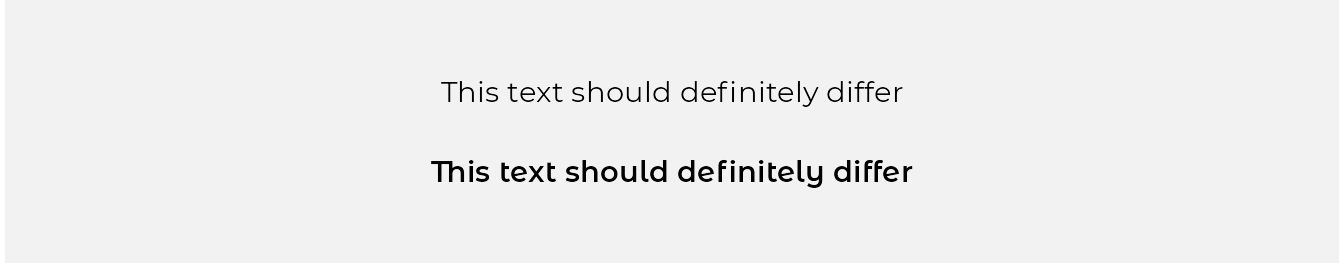
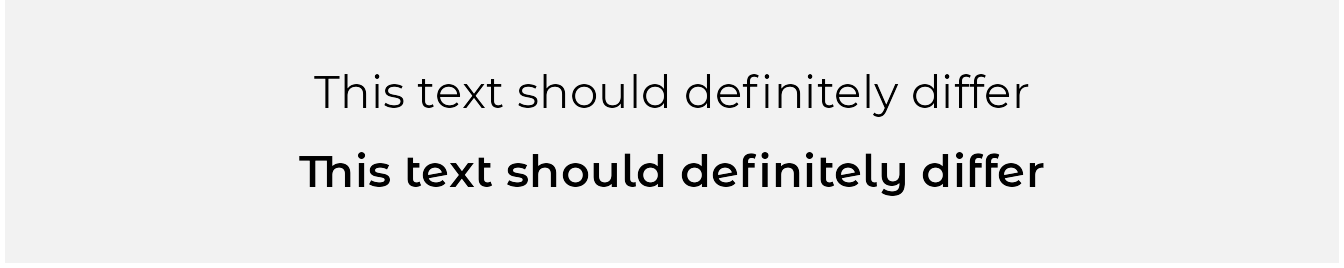
Updating with suggestions

Changed region(s): [[0.2188, 0.5672, 0.7812, 0.7463], [0.2188, 0.2687, 0.7812, 0.4179]]

diff --git a/content/blog/modern-text-features/index.md b/content/blog/modern-text-features/index.md
@@ -17,10 +17,21 @@ photo:
 
 # one of: "deep-dive", "learn", "package", "programming", or "other"
 categories: [deep-dive] 
-tags: []
-rmd_hash: c239d02c76ac3d3b
+tags: [graphic-device, ragg, systemfonts]
+rmd_hash: 8b54b1ad16560eaa
 
 ---
+
+<div class="highlight">
+
+<pre class='chroma'><code class='language-r' data-lang='r'><span class='kr'><a href='https://rdrr.io/r/base/library.html'>library</a></span><span class='o'>(</span><span class='nv'><a href='https://ragg.r-lib.org'>ragg</a></span><span class='o'>)</span>
+
+<span class='nf'>knitr</span><span class='nf'>::</span><span class='nv'><a href='https://rdrr.io/pkg/knitr/man/opts_chunk.html'>opts_chunk</a></span><span class='o'>$</span><span class='nf'>set</span><span class='o'>(</span>
+  dev <span class='o'>=</span> <span class='s'>"ragg_png"</span>
+<span class='o'>)</span>
+</code></pre>
+
+</div>
 
 I'm extremely pleased to present some new functionality when it comes to text rendering and font support in R. This is the culmination of work that started during the development of the ragg package where I was first exposed to the intricacies of text rendering. The new features presented herein spans the systemfonts, textshaping, and ragg packages, but from a user point of view everything will be available simply by using the graphic devices in ragg.
 
@@ -28,12 +39,26 @@ ragg is now in a state where it "just works", and works comparably across all ma
 
 The features that will be discussed in the following are:
 
-1.  Support for non-Latin scripts including Right-to-Left (RtL) scripts as well as a mix between script directions (bidirectional text)
+1.  Support for non-Latin scripts including Right-to-Left (RtL) scripts.
 2.  Support for OpenType features such as ligatures, glyph substitutions, etc.
 3.  Support for color fonts
 4.  Support for font fallback
 
+All of the above comes in addition to the fact that ragg is able to use all of your installed fonts.
+
 The tl;dr of it is that all area mentioned above now has full support in ragg out of the box, but I'd invite you to read on to learn how it works, how to control it, and what it all means for you as a user.
+
+### Using ragg
+
+-   ragg can be used directly in the same way as the build-in devices, such as [`png()`](https://rdrr.io/r/grDevices/png.html), [`jpeg()`](https://rdrr.io/r/grDevices/png.html), and [`tiff()`](https://rdrr.io/r/grDevices/png.html), by opening the device, running some code that renders graphics, and closing it again when done using [`dev.off()`](https://rdrr.io/r/grDevices/dev.html). The devices in ragg are prefixed with `agg_` and named by the file format they produce (e.g. [`agg_png()`](https://ragg.r-lib.org/reference/agg_png.html)).
+
+-   You can use ragg with [`ggsave()`](https://ggplot2.tidyverse.org/reference/ggsave.html) by passing the device function to the `device` argument (e.g. [`ggsave(device = agg_tiff)`](https://ggplot2.tidyverse.org/reference/ggsave.html)).
+
+-   You can tell RStudio to use ragg in the *Plots* pane be setting the backend to `AGG` under *Global Options &gt; General &gt; Graphics*.
+
+-   ragg can be used when knitting Rmarkdown files by setting `dev="ragg_png"` in the code chunk options
+
+Read more about using ragg in the previous release blog posts: [0.2.0](https://www.tidyverse.org/blog/2020/05/updates-to-ragg-and-systemfonts/) and [0.1.0](https://www.tidyverse.org/blog/2019/07/ragg-0-1-0/)
 
 ### Graphical tl;dr;
 
@@ -92,16 +117,16 @@ With the new version of ragg you'll be able to render plots such as this and exp
 
 </div>
 
-Pay note to the effortless mix of text in English and Japanese, along with the inclusion of emojis in regular text strings. If this has piqued your interest, read on!
+Pay note to the effortless mix of text in English and Japanese, along with emoji in the title. If this has piqued your interest, read on!
 
 Advanced script support
 -----------------------
 
-English, being the lingua franca of programming, has generally dominated everything related to text within programming, ranging from encoding to rendering. Because of this, the Latin script, which is used in most of the western world, has been the best (or often only) supported script in many text rendering pipelines. This has also been true in the R world where the build-in graphic devices has struggled to display scripts that differed from the standard Latin layout (the Cairo devices on Linux being the exception as we will see). This is not a jab at the provided graphic devices. ragg has handled text rendering in the exact same way up until now and the work that has gone into changing it has not been trivial. Technicalities aside, it is about time (overdue, actually) that the graphic system in R begins to support the display of non-Latin script and becomes more inclusive in terms of which languages can be used. It is thus with great joy that I can finally support it in ragg.
+English, the lingua franca of programming, has tended to dominate everything related to text within programming, ranging from encoding to rendering. This has made the Latin script, used in most of the Western world, the best (or often only) supported script in many text rendering pipelines. This has been true in the R world where the built-in graphic devices have struggled to display other scripts (the only exception being Cairo devices on Linux). It is about time (overdue, really!) that the graphics system in R becomes more inclusive of which languages can be used. It is thus with great joy that I announce that ragg finally supports all scripts.
 
 ### Right-to-Left scripts
 
-To start off we will look at a sample of different scripts that poses a problem due to their direction.
+To start off we will look at a sample of different scripts (Arabic, Hebrew, and Sindhi) that pose a challenge because they are written from right to left:
 
 <div class="highlight">
 
@@ -127,15 +152,13 @@ To start off we will look at a sample of different scripts that poses a problem 
 
 </div>
 
-Now, if you are not trained in reading any of the three languages above it may be hard to see what is right and what is wrong. You may, however, look at how the text in the code is rendered in the browser and compare that to the device rendering. If you do that you can see that the Hebrew script is rendered in the wrong direction for all the non-ragg devices (except Cairo on Linux). For the other scripts it is less obvious that the direction is wrong since the text glyphs are fundamentally different due to ligature substitutions. Still, by comparing to the browser rendering you can see that the same devices failing on the Hebrew script fail here as well.
+If you're not familiar with the languages above it can be hard to see what is right and what is wrong. You may, however, look at how the text in the code is rendered in the browser and compare that to the device rendering. If you do that you can see that the Hebrew script is rendered in the wrong direction for all the non-ragg devices (except Cairo on Linux). For the Arabic and Sindhi it's even harder to see what's wrong because the text looks fundamentally different. That's because both Arabic and Sindhi rely extensively on text substitution rules and ligatures; the way a letter is written depends critically on what letters it is next to. Still, by comparing to the browser rendering you can see that the same devices failing on the Hebrew script fail here as well.
 
-A point to make is that all of this "just works" in ragg. How is that? Shouldn't we have to indicate which kind of script we want to use? This is not necessary due to the genius of the Unicode standard which relates characters to specific scripts. The script, and by extension the layout, can thus simply be deduced from the provided string without needing to specify any additional information.
-
-The Cairo device on Linux handles this task well, as we have noted above. How come this works, but only on one OS (Cairo on macOS and Windows performs as bad as the other native devices)? Cairo is a fundamental library of many Linux distributions and is usually build on top of the Pango library which handles text layouting on Linux. It thus have access to OS level text rendering when used on Linux, but not on the other major platforms. The text rendering quality of the Cairo device on Linux is something that will be consistent through these examples and while it is very good, it is not fair to ask users to switch operating system to get modern font support. Even if you are already using Linux you'd have to accept that your output is not necessarily reproducible on other systems if you using the default device.
+The Cairo device on Linux handles this task well, as we have noted above. How come this works, but only on one OS? Cairo is built in to most Linux distributions and is designed to work with Pango, the library that linux uses to layout text. R's Cairo graphics device bundles Cairo on all platforms, but doesn't include Pango, due to the challenges of building it on other operating systems.
 
 ### Bidirectional text
 
-In the case of a mix of scripts, most importantly a mix of scripts with different direction, the string needs to be split based on the bidirectional algorithm (also defined in the Unicode standard) and each script run should then be laid out individually and combined in the end.
+What happens if you combine right-to-left and left-to-right text in the same sentence? The string needs to be split into pieces that each consist of text running in one direction, laid out individually, and then combined back together
 
 <div class="highlight">
 
@@ -158,18 +181,14 @@ In the case of a mix of scripts, most importantly a mix of scripts with differen
 
 </div>
 
-It comes as no surprise that the devices that struggle with RtL scripts also fail when these are mixed with Left-to-Right (LtR), so the point here is mainly that ragg (and Cairo on Linux) supports this additional complication with no additional work on the user.
-
-### Scripts with special consideration
-
-While some scripts are simple in the sense that only the text direction needs to be reversed (e.g. Hebrew), others are more demanding of the layout algorithm. Arabic, for example, is not only a RtL script but also relies heavily on ligatures (substitution of multiple glyphs with a single one) and position adjustments to achieve the correct look of the text. Such information is not encoded in the text string but are instead rules encoded in the font used to render it. Correctly laying out a string will thus require both figuring out the script to use, as well as converting the characters in the string to the correct set of glyphs to use based on substitution tables found in the font file. This is not straightforward, but is being handled in ragg (and Cairo on Linux) as they both build upon the HarfBuzz library to lay out text.
+Given that most devices struggle with RtL scripts, it's not surprising that they also fail when mixed. Again the exception is ragg, and Cairo on Linux.
 
 Advanced font feature support
 -----------------------------
 
-As noted above, part of supporting some scripts is to have support for ligatures. While ligatures is a requirement for the correct rendering of some scripts it is also an optional feature of fonts in general to support different text variations. More generally, the OpenType font format describes a long range of features, many optional, that defines specific glyph substitutions (both one-to-one and many-to-one) or position adjustments that can be turned on or off and will affect the look of the final rendered text. Some of these features are turned on automatically for specific scripts (e.g. required ligatures for Arabic), while others are left for the user to turn on at their discretion (e.g. tabular numerics). As part of the work to add support for non-Latin scripts the infrastructure to support all OpenType features was build. This, of course, requires that the font in use supports the requested feature.
+A part of supporting some of the non-Latin scripts described above is to have support for ligatures (substituting multiple glyphs with a single new glyph). While ligatures is a requirement for the correct rendering of some scripts it is also an optional feature of fonts in general in order to support different text variations. More generally, the OpenType font format describes a long range of features, many optional, that defines specific glyph substitutions (both one-to-one and many-to-one) or position adjustments that can be turned on or off and will affect the look of the final rendered text. Some of these features are turned on automatically for specific scripts (e.g. required ligatures for Arabic), while others are left for the user to turn on at their discretion (e.g. tabular numerics). As part of the work to add support for non-Latin scripts the infrastructure to support all OpenType features was build. This, of course, requires that the font in use supports the requested feature.
 
-Some fonts uses ligatures as a main part of their appeal, and these will now work as advertised with ragg:
+Some fonts, like the popular [Fira Code](https://github.com/tonsky/FiraCode) programming font, use ligatures as a main part of their appeal. These now work as expected with ragg:
 
 <div class="highlight">
 
@@ -199,7 +218,7 @@ Some fonts uses ligatures as a main part of their appeal, and these will now wor
 
 But what about non-default features? The capabilities of the graphic engine in R presents a problem here. There is very little information that the user is able to sent along with the text to be plotted, apart from location and font (**bold** and *italic* on/off is the extend of it). So, having a device with support for advanced OpenType features in and off itself is nearly useless as there is no way to specify in your plot code that you want to turn a feature on or off.
 
-In order to get around this without dropping support for the standard ways one puts text in plots with R, systemfonts now allows you to register font features along with a font under a different name. The font registration mechanism was previously mostly used for giving access to fonts that were not installed on the system (but e.g. provided by a package), but its use has now expanded and a [`register_variant()`](https://rdrr.io/pkg/systemfonts/man/register_variant.html) function has been added to quickly create a new version of an existing font:
+To work around this limitation, systemfonts now allows you to register font variants, providing a custom name that you can use to refer to a font with certain features enabled:
 
 <div class="highlight">
 
@@ -214,18 +233,20 @@ In order to get around this without dropping support for the standard ways one p
 
 </div>
 
-The code above creates a new font based on Montserrat using a light weight and turning on standard ligatures and stylistic letter substitution. Now, in your text plotting code all you have to do is specify `"Montserrat Extreme"` as the font family and the features and weights will be used. It should be noted that there is no point in comparing with other devices here, since none of the others are build on top of systemfonts and will thus not have accessed to the registered font:
+The code above creates a new font based on Montserrat using a light weight and turning on standard ligatures and stylistic letter substitution. Now, in your text plotting code all you have to do is specify `"Montserrat Extreme"` as the font family and the features and weights will be used. This only works with ragg, because none of the other devices are build on top of systemfonts, so don't know how to access the registered font:
 
 <div class="highlight">
 
 <pre class='chroma'><code class='language-r' data-lang='r'><span class='nf'><a href='https://ggplot2.tidyverse.org/reference/ggplot.html'>ggplot</a></span><span class='o'>(</span><span class='o'>)</span> <span class='o'>+</span> 
   <span class='nf'><a href='https://ggplot2.tidyverse.org/reference/geom_text.html'>geom_text</a></span><span class='o'>(</span>
     <span class='nf'><a href='https://ggplot2.tidyverse.org/reference/aes.html'>aes</a></span><span class='o'>(</span>x <span class='o'>=</span> <span class='m'>0</span>, y <span class='o'>=</span> <span class='m'>1</span>, label <span class='o'>=</span> <span class='s'>"This text should definitely differ"</span><span class='o'>)</span>,
-    family <span class='o'>=</span> <span class='s'>"Montserrat"</span>
+    family <span class='o'>=</span> <span class='s'>"Montserrat"</span>,
+    size <span class='o'>=</span> <span class='m'>6</span>
   <span class='o'>)</span> <span class='o'>+</span> 
   <span class='nf'><a href='https://ggplot2.tidyverse.org/reference/geom_text.html'>geom_text</a></span><span class='o'>(</span>
     <span class='nf'><a href='https://ggplot2.tidyverse.org/reference/aes.html'>aes</a></span><span class='o'>(</span>x <span class='o'>=</span> <span class='m'>0</span>, y <span class='o'>=</span> <span class='m'>0</span>, label <span class='o'>=</span> <span class='s'>"This text should definitely differ"</span><span class='o'>)</span>,
-    family <span class='o'>=</span> <span class='s'>"Montserrat Extreme"</span>
+    family <span class='o'>=</span> <span class='s'>"Montserrat Extreme"</span>,
+    size <span class='o'>=</span> <span class='m'>6</span>
   <span class='o'>)</span> <span class='o'>+</span> 
   <span class='nf'><a href='https://ggplot2.tidyverse.org/reference/expand_limits.html'>expand_limits</a></span><span class='o'>(</span>y <span class='o'>=</span> <span class='nf'><a href='https://rdrr.io/r/base/c.html'>c</a></span><span class='o'>(</span><span class='o'>-</span><span class='m'>1</span>, <span class='m'>2</span><span class='o'>)</span><span class='o'>)</span>
 
@@ -236,14 +257,14 @@ The code above creates a new font based on Montserrat using a light weight and t
 
 We can see that by using this font registration we gain access to weights other than normal and bold, but also to glyph substitutions such as the "Th" ligature, and the stylistic variations seen with the "t", "f", "l", and "e" glyphs.
 
-While a lot of the optional OpenType features are mainly of interest to achieve a specific stylistic look of the rendered text, some have more importance for data visualizations, such as those related to how numbers are displayed. It is both possible to force even-width numbers, as well as correct display of fractional numbers using OpenType as long as the font supports it, so it is definitely something to look into when you want to add that final polish to your visualization.
+While a lot of the optional OpenType features are mainly of interest to achieve a specific stylistic look of the rendered text, some have more importance for data visualizations, such as those related to how numbers are displayed. It is both possible to force even-width numbers, as well as correct display of fractional numbers (using `font_feature(numbers = c("tabular", "fractions")`) using OpenType as long as the font supports it, so it is definitely something to look into when you want to add that final polish to your visualization.
 
-Colour fonts
-------------
+Color fonts
+-----------
 
 A recent (in font technology terms) development is the availability of color fonts, i.e. fonts where the glyphs have designated colors. This development is largely driven by the ubiquity of emojis in modern text, and while it may seem that emojis have been around forever, it is recent enough that the world has yet to converge to a single standard for color fonts. The system emoji font on macOS, Windows, and Linux all uses different font technologies for storing the color glyphs, ranging from storing a single bitmap, to storing each glyph as an SVG. This, unsurprisingly, complicates things. To add insult to injury, emojis often gets rendered slightly larger than the surrounding text and with a slightly lowered baseline in a very OS-specific way (this does not apply to all color fonts; only emojis).
 
-Why am I telling you this? Well, honestly it is mostly to make you appreciate the labor that went into the fact that color fonts (and by extension, emojis) now just works.
+Why am I telling you this? Well, honestly it is mostly to make you appreciate the labor that went into the fact that color fonts (and by extension, emojis) now just works:
 
 <div class="highlight">
 
@@ -271,7 +292,7 @@ As one can see the failures range from not being able to render anything, to ren
 Font fallback
 -------------
 
-In all of the above examples we have been very mindful in setting the font-face to a font that contains all the glyphs we need. This is not always practical, especially when one wants to mix emojis and regular text such as it is done normally. It is also an absolute requirement when mixing Latin and CJK (Chinese, Japanese, and Korean) text as it is unfeasible to include all CJK glyphs in a single font. However, we are used to things just working at the system level. No matter the font it seems that a glyph is always displayed in e.g. browsers and text editors. This is because the OS is employing font fallback, which is the act of figuring out an alternative font to use when a glyph is not present in the chosen font. Wouldn't it be great if we could have that in a graphic device? Well, now we have!
+In all of the above examples we have been very mindful in setting the font-face to a font that contains all the glyphs we need. This is not always practical, especially when you want to mix emoji and regular text. It is also an absolute requirement when mixing Latin and CJK (Chinese, Japanese, and Korean) text as it is infeasible to include all CJK glyphs in a single font. However, we are used to things just working at the system level. No matter the font it seems that a glyph is always displayed in e.g. browsers and text editors. This is because the OS is employing font fallback, which is the act of figuring out an alternative font to use when a glyph is not present in the chosen font. Wouldn't it be great if we could have that in a graphic device? Well, now we do!
 
 <div class="highlight">
 
@@ -296,7 +317,7 @@ The bottom line is that with ragg, you now don't need to think about missing gly
 Where's the catch
 -----------------
 
-Most of what we have shown today simply works automagically and may (depending on your prior frustrations with script support in R) seem too good to be true. Is there any catch? Not really. systemfonts, textshaping, and ragg tries to be as smart as possible about text shaping and only take additional action if required. Further everything is heavily cached. Any hit on performance is thus negligible.
+Most of what we have shown today simply works automagically and may (depending on your prior frustrations with script support in R) seem too good to be true. Is there any catch? Not really. systemfonts, textshaping, and ragg try to be as smart as possible about text shaping and only take additional action if required. Further everything is heavily cached, so the impact on performance is negligible.
 
 There is something missing though, which we haven't touched upon. Not all scripts are LtR or RtL. A few, especially Asian scripts, are top-to-bottom. Top-to-bottom scripts are sadly not yet supported. This is not due to any limitation in the underlying shaping technology, but due to limitations in the R graphic engine, which assumes horizontal text in key places of the API. This means that until the graphic engine is updated it is outside the grasp of graphic devices to support vertical text. Hopefully, this is an area that will improve in the future.
 
